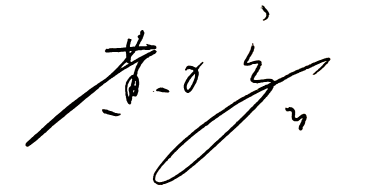
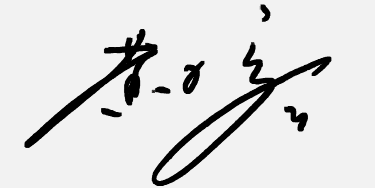
f

diff --git a/js/return.js b/js/return.js
@@ -314,18 +314,14 @@ document.querySelectorAll('.return-item-checkbox').forEach(cb => {
         } else {
             selectedReturnIds.delete(id);
         }
-        // ===== 参照 finance.js：基于全量数据计算全选状态 =====
+        // ✅ 直接更新全选复选框状态
         const allCheckbox = document.getElementById('returnPrintAllCheck');
         if (allCheckbox) {
-            const total = filteredReturnGoods.length;
-            const allChecked = (selectedReturnIds.size === total && total > 0);
-            skipReturnAllChange = true;
+            const allChecked = (selectedReturnIds.size === filteredReturnGoods.length && filteredReturnGoods.length > 0);
             allCheckbox.checked = allChecked;
-            skipReturnAllChange = false;
         }
     };
 });
-
     // 更新全选状态
     updateReturnAllCheckboxState();
 }
@@ -333,13 +329,9 @@ document.querySelectorAll('.return-item-checkbox').forEach(cb => {
 // ===== 更新全选复选框状态（参照 finance.js：基于集合大小判断） =====
 function updateReturnAllCheckboxState() {
     const allCheckbox = document.getElementById('returnPrintAllCheck');
-    if (!allCheckbox) return;
-    const total = filteredReturnGoods.length;
-    const checkedCount = selectedReturnIds.size;
-    const allChecked = (checkedCount === total && total > 0);
-    skipReturnAllChange = true;
+if (allCheckbox) {
+    const allChecked = (selectedReturnIds.size === filteredReturnGoods.length && filteredReturnGoods.length > 0);
     allCheckbox.checked = allChecked;
-    skipReturnAllChange = false;
 }
 
 // ========== 分页 ==========
